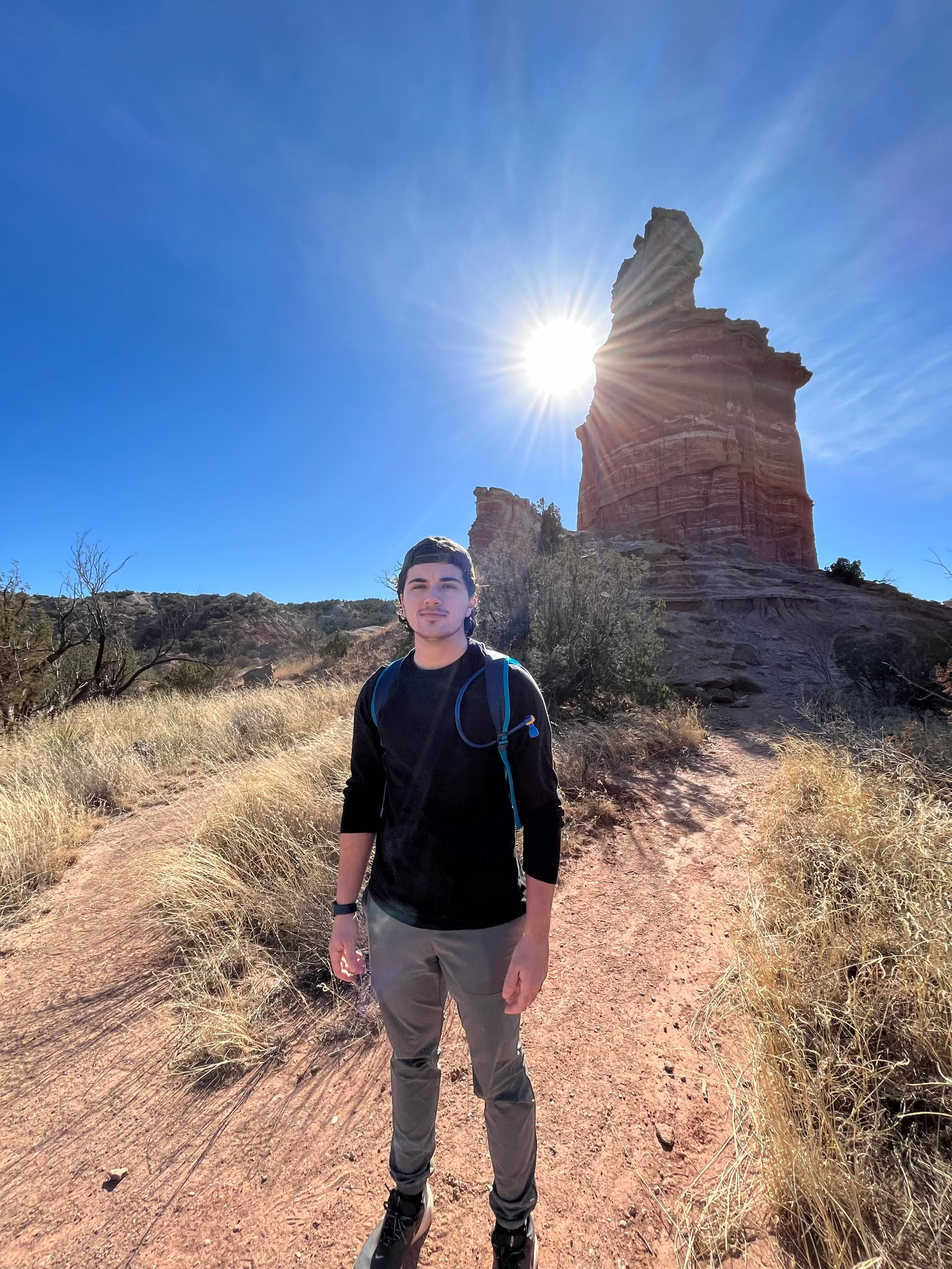
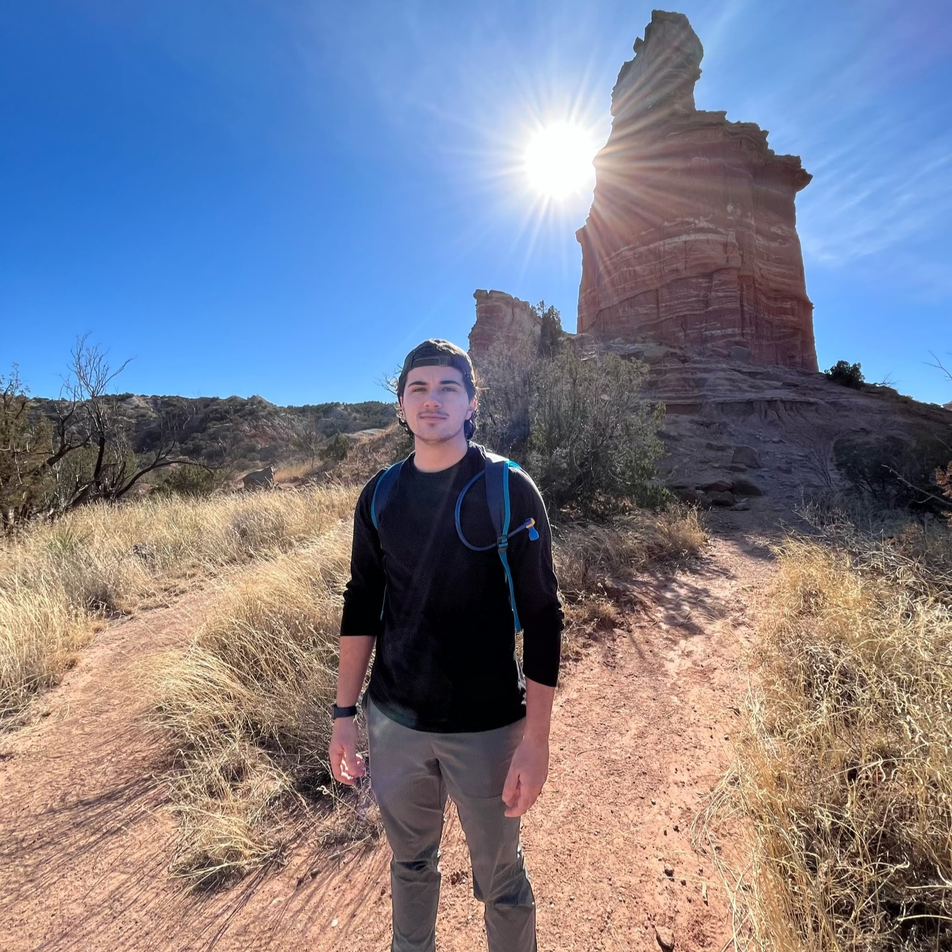
changed layout

diff --git a/styles.css b/styles.css
@@ -1,0 +1,103 @@
+* {
+    max-width: 700px;
+    margin: auto;
+  }
+  
+  
+  /*body {
+      min-width: 500px;
+  }*/
+  
+  div {
+    border-radius: 5px;
+  }
+  
+  #header {
+    height: 40px;
+    width: 100%;
+    background-color: #618063;
+    position: fixed;
+    z-index: 1;
+  }
+  
+  #title {
+    margin-left: 3%;
+  }
+  
+  #footer {
+    height: 50px;
+    width: 100%;
+    background-color: #618063;
+    clear: both;
+    position: relative;
+  }
+  
+  .left {
+    height: 1000px;
+    width: 45px;
+    background-color: #e0eeee;
+    float: left;
+    position: fixed;
+  }
+  
+  .right {
+    height: 1000px;
+    width: 45px;
+    background-color: #e0eeee;
+    float: right;
+    position: inherit;
+  }
+  
+  .stuff {
+    display: inline-block;
+    margin-top: 6px;
+    margin-left: 55px;
+    width: 75%;
+    height: 1000px;
+  }
+  
+  p,
+  li {
+    font-family: 'Cormorant Garamond';
+  }
+  
+  .head {
+    font-size: 20px;
+  }
+  
+  #name {
+    font-family: Sacramento;
+    float: right;
+    margin-top: 10px;
+    margin-right: 4%;
+  }
+  
+  a {
+    color: black;
+    text-decoration: none;
+  }
+  
+  @media only screen and (max-width: 430px) {
+    .left,
+    .right {
+      display: none;
+    }
+    .stuff {
+      width: 100%;
+      margin-left: 10px;
+    }
+  }
+  .image-cropper {
+    width: 400px;
+    height: 400px;
+    position: relative;
+    overflow: hidden;
+    border-radius: 100%;
+}
+.profile-pic {
+  display: inline;
+  margin: 0 auto;
+  margin-left: auto; 
+  height: 100%;
+  width: auto;
+}

diff --git a/index.html b/index.html
@@ -1,0 +1,43 @@
+<!DOCTYPE html>
+
+<div id="header"></div>
+<div class="left"></div>
+<div class="stuff">
+<link href="styles.css" rel="stylesheet">
+  <br><br>
+  <div class="image-cropper">
+    <img src="me.jpg" alt="avatar" class="profile-pic">
+  </div>
+  <h1>Daniel Leniz</h1>
+  <h2>Software Engineer</h2>
+  <h6>danielmleniz@gmail.com  | (863) 899-6602  | Tampa, FL
+  <hr />
+  <br>
+  <p class="head">Interests</p>
+  <ul>
+    <li>Hiking</li>
+    <li>Rock Climbing</li>
+    <li>Video Games</li>
+    
+  </ul>
+  <p class="head">Skills</p>
+  <ul>
+    <li>Python</li>
+    <li>AWS</li>
+  </ul>
+  <p class="head">Education</p>
+  <ul>
+      <li>University of South Florida</li>
+    
+      <li>Harvard University - CS50</li>
+   
+    <li>Codecademy</li>
+  </ul>
+  <p class="head">Projects</p>
+  
+  <p class="head">Extracurriculars</p>
+ 
+</div>
+<div class="right"></div>
+<div id="footer">
+  
